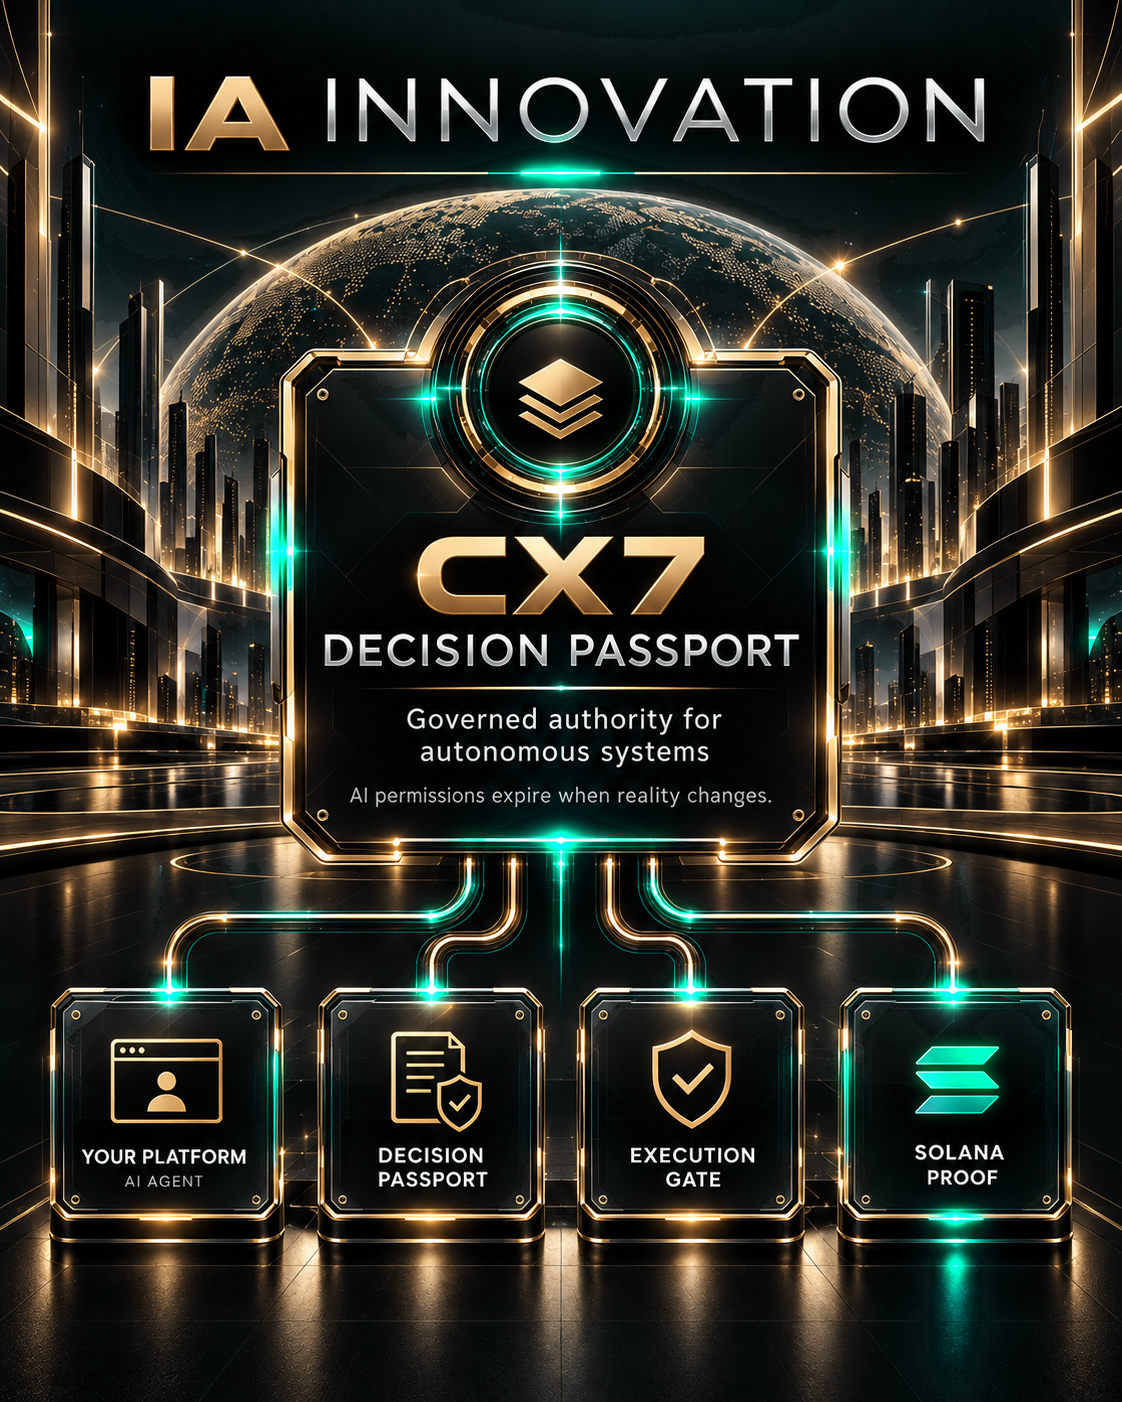
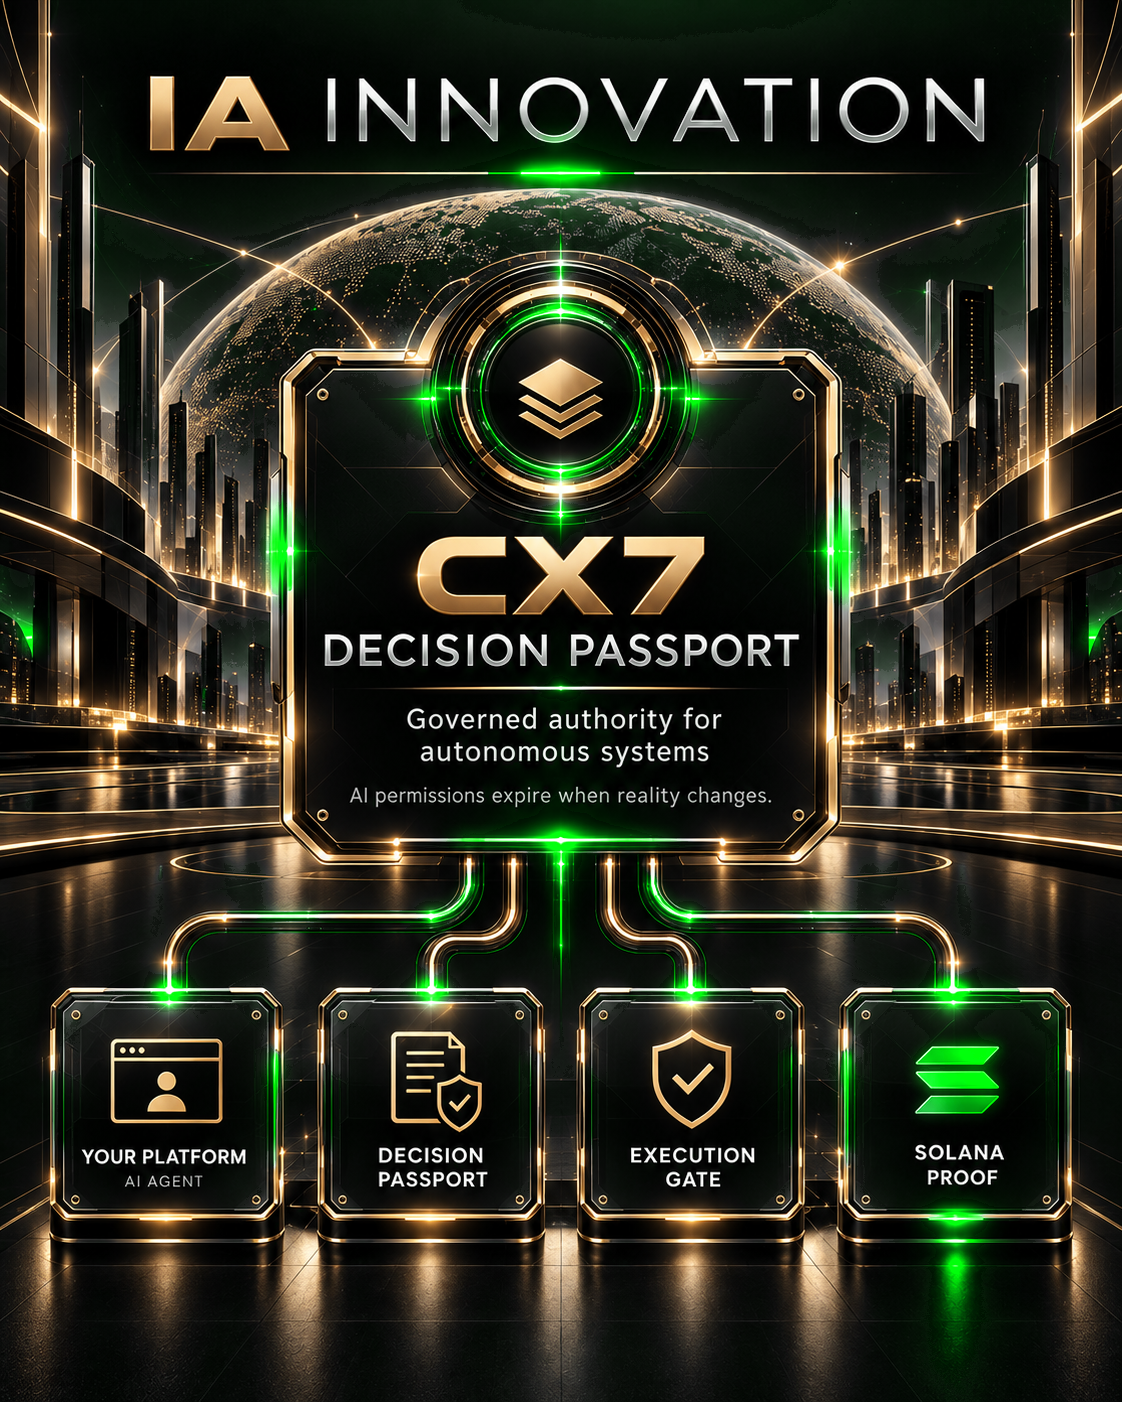
Changes

diff --git a/src/styles.css b/src/styles.css
@@ -51,7 +51,7 @@
   --popover-foreground: oklch(0.95 0.01 85);
   --gold: oklch(0.8 0.09 82);
   --gold-soft: oklch(0.88 0.05 85);
-  --cyan: oklch(0.82 0.12 205);
+  --cyan: oklch(0.72 0.16 152);
   --primary: var(--gold);
   --primary-foreground: oklch(0.15 0.01 80);
   --secondary: oklch(0.22 0.008 260);
@@ -60,7 +60,7 @@
   --muted-foreground: oklch(0.66 0.015 260);
   --accent: oklch(0.24 0.01 260);
   --accent-foreground: oklch(0.95 0.01 85);
-  --success: oklch(0.8 0.13 175);
+  --success: oklch(0.76 0.15 152);
   --warning: oklch(0.8 0.14 70);
   --danger: oklch(0.66 0.2 25);
   --destructive: var(--danger);
@@ -72,7 +72,7 @@
   --gradient-gold: linear-gradient(135deg, oklch(0.9 0.06 88), oklch(0.74 0.1 75) 55%, oklch(0.62 0.08 65));
   --gradient-hairline: linear-gradient(90deg, transparent, oklch(0.8 0.09 82 / 60%), transparent);
   --shadow-glow: 0 0 60px -10px oklch(0.8 0.09 82 / 25%);
-  --shadow-cyan: 0 0 24px -4px oklch(0.82 0.12 205 / 55%);
+  --shadow-cyan: 0 0 26px -2px oklch(0.58 0.19 152 / 60%);
 }
 
 @layer base {
@@ -83,7 +83,7 @@
     font-family: var(--font-sans);
     background-image:
       radial-gradient(ellipse 80% 50% at 50% -10%, oklch(0.8 0.09 82 / 10%), transparent 60%),
-      radial-gradient(ellipse 50% 40% at 90% 20%, oklch(0.82 0.12 205 / 5%), transparent 60%);
+      radial-gradient(ellipse 50% 40% at 90% 20%, oklch(0.6 0.14 152 / 6%), transparent 60%);
     background-attachment: fixed;
   }
   h1, h2, h3 { font-family: var(--font-display); letter-spacing: -0.02em; }

diff --git a/src/components/cx7-decision-passport.css b/src/components/cx7-decision-passport.css
@@ -4,20 +4,20 @@
   --home-muted: #9da1a6;
   --home-gold: #ddb46b;
   --home-gold-soft: #f1d49c;
-  --home-cyan: #6F8F63;
+  --home-cyan: #2FAE74;
   --home-line: rgba(221,180,107,.34);
-  --home-hover: rgba(111,143,99,.025);
-  --home-ring: rgba(111,143,99,.45);
-  --home-hover-shadow: 0 0 0 1px rgba(111,143,99,.45),0 0 28px rgba(111,143,99,.20),inset 0 0 30px rgba(221,180,107,.05);
+  --home-hover: rgba(47,174,116,.05);
+  --home-ring: rgba(47,174,116,.5);
+  --home-hover-shadow: 0 0 0 1px rgba(47,174,116,.5),0 0 34px rgba(47,174,116,.30),inset 0 0 30px rgba(221,180,107,.05);
   --home-backdrop: rgba(0,0,0,.78);
   --home-panel: linear-gradient(145deg,rgba(18,20,23,.98),rgba(7,8,9,.98));
-  --home-shadow: 0 24px 90px rgba(0,0,0,.65),0 0 42px rgba(111,143,99,.06);
+  --home-shadow: 0 24px 90px rgba(0,0,0,.65),0 0 46px rgba(47,174,116,.10);
   --home-metric-border: rgba(255,255,255,.08);
   --home-metric-bg: rgba(255,255,255,.025);
   --home-note: #7f858a;
-  --home-status: #84eaff;
-  --home-cta-bg: rgba(111,143,99,.06);
-  --home-cta-text: #9becf7;
+  --home-status: #4FD396;
+  --home-cta-bg: rgba(47,174,116,.08);
+  --home-cta-text: #7CE7B4;
   min-height: 100svh;
   display: grid;
   place-items: center;
